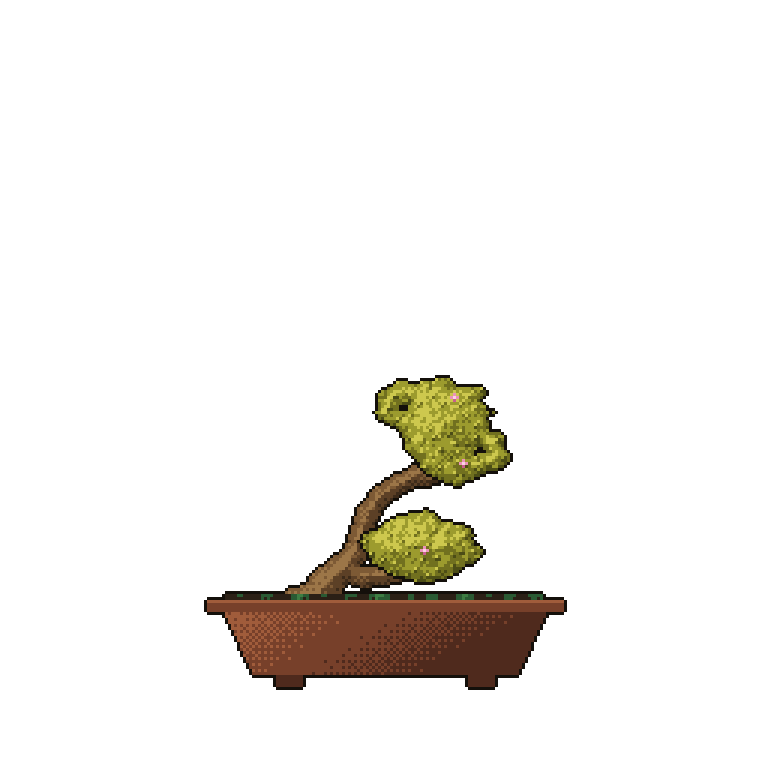
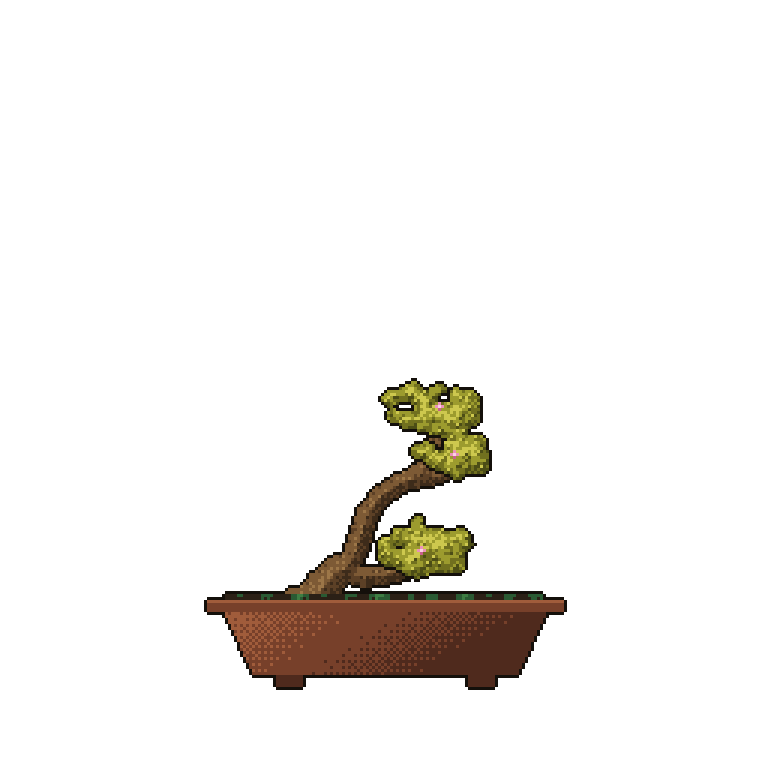
feat: cloudier crowns and sculpted trunks
Crowns: smaller glue-blobs at pad centers, ragged edges and a
low-frequency hole noise carve the sky-gaps of real crowns, so branch
structure shows through; denser leaf stamps.

Trunks: thick wood is drawn as a union of noise-offset lobes (grooves
and knobs instead of a smooth sausage), bark striations are stronger
per species, and a new depthScale shading knob lets the tonal gradient
reach the core of wide trunks instead of saturating 3px from the edge.

Claude-Session: https://claude.ai/code/session_016wzfiLTiSENdkKTfsVTFZx

Changed region(s): [[0.375, 0.4688, 0.6875, 0.7812]]

diff --git a/dist/src/foliage.js b/dist/src/foliage.js
@@ -26,11 +26,13 @@ function drawFoliage(frame, dna, skel, t, sway, rng, noise) {
         if (pad.dead || pad.birth > t)
             continue;
         const grow = ease((t - pad.birth) / 0.15);
-        balls.push({ x: sway(pad.x, pad.y - 1), y: pad.y - 1, r: pad.r * 0.58 * grow, epoch: pad.epoch });
+        // a small core blob only glues the very center; the cloud shape comes
+        // from the twig tips so branch structure shows through the gaps
+        balls.push({ x: sway(pad.x, pad.y - 1), y: pad.y - 1, r: pad.r * 0.42 * grow, epoch: pad.epoch });
         for (const tip of pad.tips) {
             if (tip.birth > t)
                 continue;
-            const tr = (3.6 + dna.foliage * 1.9) * ease((t - tip.birth) / 0.1);
+            const tr = (3.2 + dna.foliage * 1.5) * ease((t - tip.birth) / 0.1);
             balls.push({ x: sway(tip.x, tip.y), y: tip.y, r: tr, epoch: pad.epoch });
         }
     }
@@ -73,7 +75,8 @@ function drawFoliage(frame, dna, skel, t, sway, rng, noise) {
             }
         }
     }
-    // separation rises with foliage so dense crowns keep visible layered pads
+    // separation rises with foliage so dense crowns keep visible layered pads;
+    // a low-frequency "hole" noise carves the sky-gaps real crowns have
     const threshold = species.padThreshold + dna.foliage * 0.1;
     const mask = new Uint8Array(w * h);
     const epochBuf = new Uint8Array(w * h);
@@ -82,7 +85,9 @@ function drawFoliage(frame, dna, skel, t, sway, rng, noise) {
             const i = y * w + x;
             if (field[i] <= 0.05)
                 continue;
-            if (field[i] + noise(x * 0.09, y * 0.09) * 0.3 > threshold) {
+            const ragged = noise(x * 0.09, y * 0.09) * 0.38;
+            const hole = Math.max(0, noise(x * 0.045 + 37, y * 0.045 - 53)) * 0.5;
+            if (field[i] + ragged - hole > threshold) {
                 mask[i] = 1;
                 let best = 0;
                 if (fieldE[1][i] > fieldE[best][i])
@@ -109,7 +114,7 @@ function drawFoliage(frame, dna, skel, t, sway, rng, noise) {
         }
     }
     // leaf-stamp texture (stamp shape comes from the species)
-    const pts = (0, poisson_1.poissonDisk)(rng, maxX - minX + 1, maxY - minY + 1, 3.2);
+    const pts = (0, poisson_1.poissonDisk)(rng, maxX - minX + 1, maxY - minY + 1, 2.6);
     for (const p of pts) {
         const x = Math.floor(minX + p.x);
         const y = Math.floor(minY + p.y);

diff --git a/dist/src/render.js b/dist/src/render.js
@@ -41,7 +41,25 @@ function renderFrame(dna, skel, opts = {}) {
             continue;
         const rEase = 0.3 + 0.7 * ease((t - s.birth) * 8);
         const r = s.twig ? s.radius : s.radius * rEase * maturity;
-        (0, raster_1.fillCapsule)(s.dead ? deadMask : aliveMask, skeleton_1.W, skeleton_1.H, sway(s.ax, s.ay), s.ay, sway(s.bx, s.by), s.by, r, 1);
+        const mask = s.dead ? deadMask : aliveMask;
+        const ax = sway(s.ax, s.ay);
+        const bx = sway(s.bx, s.by);
+        if (!s.twig && r > 3.5) {
+            // fluted trunk: a union of offset lobes gives thick wood the grooves,
+            // knobs and muscle of real bark instead of a smooth sausage
+            const pxv = s.by - s.ay;
+            const pyv = -(bx - ax);
+            const L = Math.hypot(pxv, pyv) || 1;
+            const wob = 0.32 + 0.22 * noise((s.ax + s.bx) * 0.11, (s.ay + s.by) * 0.11);
+            const ox = (pxv / L) * r * wob;
+            const oy = (pyv / L) * r * wob;
+            (0, raster_1.fillCapsule)(mask, skeleton_1.W, skeleton_1.H, ax + ox, s.ay + oy, bx + ox, s.by + oy, r * 0.62, 1);
+            (0, raster_1.fillCapsule)(mask, skeleton_1.W, skeleton_1.H, ax - ox, s.ay - oy, bx - ox, s.by - oy, r * 0.62, 1);
+            (0, raster_1.fillCapsule)(mask, skeleton_1.W, skeleton_1.H, ax, s.ay, bx, s.by, r * 0.85, 1);
+        }
+        else {
+            (0, raster_1.fillCapsule)(mask, skeleton_1.W, skeleton_1.H, ax, s.ay, bx, s.by, r, 1);
+        }
         // shari: a pale strip of deadwood along the lower trunk's shaded side
         if (dna.shari && !s.twig && s.order <= 1 && s.birth < 0.3 && r > 2.5) {
             const pxv = s.by - s.ay;
@@ -58,7 +76,7 @@ function renderFrame(dna, skel, opts = {}) {
         (0, raster_1.fillCapsule)(aliveMask, skeleton_1.W, skeleton_1.H, skel.baseX, skel.groundY - 4, skel.baseX + side * spread, skel.groundY - 2, dna.baseRadius * 0.36, 1);
     }
     const shadeAlive = (0, shade_1.makeShader)(aliveMask, skeleton_1.W, skeleton_1.H, palette_1.TRUNK.length, {
-        depthMix: 0.4, noise, noiseAmp: species.barkAmp, noiseScaleX: 0.5, noiseScaleY: 0.12,
+        depthMix: 0.38, depthScale: 0.13, noise, noiseAmp: species.barkAmp, noiseScaleX: 0.55, noiseScaleY: 0.09,
     });
     const shadeDead = (0, shade_1.makeShader)(deadMask, skeleton_1.W, skeleton_1.H, palette_1.DEAD.length, { depthMix: 0.35 });
     for (let y = 0; y < skeleton_1.H; y++) {

diff --git a/src/foliage.ts b/src/foliage.ts
@@ -38,10 +38,12 @@ export function drawFoliage(
   for (const pad of skel.pads) {
     if (pad.dead || pad.birth > t) continue;
     const grow = ease((t - pad.birth) / 0.15);
-    balls.push({ x: sway(pad.x, pad.y - 1), y: pad.y - 1, r: pad.r * 0.58 * grow, epoch: pad.epoch });
+    // a small core blob only glues the very center; the cloud shape comes
+    // from the twig tips so branch structure shows through the gaps
+    balls.push({ x: sway(pad.x, pad.y - 1), y: pad.y - 1, r: pad.r * 0.42 * grow, epoch: pad.epoch });
     for (const tip of pad.tips) {
       if (tip.birth > t) continue;
-      const tr = (3.6 + dna.foliage * 1.9) * ease((t - tip.birth) / 0.1);
+      const tr = (3.2 + dna.foliage * 1.5) * ease((t - tip.birth) / 0.1);
       balls.push({ x: sway(tip.x, tip.y), y: tip.y, r: tr, epoch: pad.epoch });
     }
   }
@@ -84,7 +86,8 @@ export function drawFoliage(
     }
   }
 
-  // separation rises with foliage so dense crowns keep visible layered pads
+  // separation rises with foliage so dense crowns keep visible layered pads;
+  // a low-frequency "hole" noise carves the sky-gaps real crowns have
   const threshold = species.padThreshold + dna.foliage * 0.1;
   const mask = new Uint8Array(w * h);
   const epochBuf = new Uint8Array(w * h);
@@ -92,7 +95,9 @@ export function drawFoliage(
     for (let x = minX; x <= maxX; x++) {
       const i = y * w + x;
       if (field[i] <= 0.05) continue;
-      if (field[i] + noise(x * 0.09, y * 0.09) * 0.3 > threshold) {
+      const ragged = noise(x * 0.09, y * 0.09) * 0.38;
+      const hole = Math.max(0, noise(x * 0.045 + 37, y * 0.045 - 53)) * 0.5;
+      if (field[i] + ragged - hole > threshold) {
         mask[i] = 1;
         let best = 0;
         if (fieldE[1][i] > fieldE[best][i]) best = 1;
@@ -118,7 +123,7 @@ export function drawFoliage(
   }
 
   // leaf-stamp texture (stamp shape comes from the species)
-  const pts = poissonDisk(rng, maxX - minX + 1, maxY - minY + 1, 3.2);
+  const pts = poissonDisk(rng, maxX - minX + 1, maxY - minY + 1, 2.6);
   for (const p of pts) {
     const x = Math.floor(minX + p.x);
     const y = Math.floor(minY + p.y);

diff --git a/src/render.ts b/src/render.ts
@@ -52,10 +52,24 @@ export function renderFrame(dna: BonsaiDNA, skel: Skeleton, opts: RenderOpts = {
     if (s.birth > t) continue;
     const rEase = 0.3 + 0.7 * ease((t - s.birth) * 8);
     const r = s.twig ? s.radius : s.radius * rEase * maturity;
-    fillCapsule(
-      s.dead ? deadMask : aliveMask, W, H,
-      sway(s.ax, s.ay), s.ay, sway(s.bx, s.by), s.by, r, 1,
-    );
+    const mask = s.dead ? deadMask : aliveMask;
+    const ax = sway(s.ax, s.ay);
+    const bx = sway(s.bx, s.by);
+    if (!s.twig && r > 3.5) {
+      // fluted trunk: a union of offset lobes gives thick wood the grooves,
+      // knobs and muscle of real bark instead of a smooth sausage
+      const pxv = s.by - s.ay;
+      const pyv = -(bx - ax);
+      const L = Math.hypot(pxv, pyv) || 1;
+      const wob = 0.32 + 0.22 * noise((s.ax + s.bx) * 0.11, (s.ay + s.by) * 0.11);
+      const ox = (pxv / L) * r * wob;
+      const oy = (pyv / L) * r * wob;
+      fillCapsule(mask, W, H, ax + ox, s.ay + oy, bx + ox, s.by + oy, r * 0.62, 1);
+      fillCapsule(mask, W, H, ax - ox, s.ay - oy, bx - ox, s.by - oy, r * 0.62, 1);
+      fillCapsule(mask, W, H, ax, s.ay, bx, s.by, r * 0.85, 1);
+    } else {
+      fillCapsule(mask, W, H, ax, s.ay, bx, s.by, r, 1);
+    }
     // shari: a pale strip of deadwood along the lower trunk's shaded side
     if (dna.shari && !s.twig && s.order <= 1 && s.birth < 0.3 && r > 2.5) {
       const pxv = s.by - s.ay;
@@ -84,7 +98,7 @@ export function renderFrame(dna: BonsaiDNA, skel: Skeleton, opts: RenderOpts = {
   }
 
   const shadeAlive = makeShader(aliveMask, W, H, TRUNK.length, {
-    depthMix: 0.4, noise, noiseAmp: species.barkAmp, noiseScaleX: 0.5, noiseScaleY: 0.12,
+    depthMix: 0.38, depthScale: 0.13, noise, noiseAmp: species.barkAmp, noiseScaleX: 0.55, noiseScaleY: 0.09,
   });
   const shadeDead = makeShader(deadMask, W, H, DEAD.length, { depthMix: 0.35 });
   for (let y = 0; y < H; y++) {

diff --git a/dist/src/palette.js b/dist/src/palette.js
@@ -63,11 +63,11 @@ function speciesFor(lang) {
     return (lang && FAMILY[lang]) || 'maple';
 }
 exports.SPECIES = {
-    pine: { padFlatten: 1.6, padThreshold: 0.5, stamp: [[0, 0], [1, -1]], barkAmp: 0.2, droop: 0.2 },
-    maple: { padFlatten: 1.15, padThreshold: 0.44, stamp: [[0, 0], [-1, 0], [1, 0], [0, -1], [0, 1]], barkAmp: 0.1, droop: 0.1 },
-    cherry: { padFlatten: 1.05, padThreshold: 0.4, stamp: [[0, 0], [1, 0], [0, 1], [1, 1]], barkAmp: 0.08, droop: 0.14 },
-    juniper: { padFlatten: 1.35, padThreshold: 0.55, stamp: [[0, 0]], barkAmp: 0.16, droop: 0.05 },
-    elm: { padFlatten: 1.2, padThreshold: 0.46, stamp: [[0, 0], [0, 1]], barkAmp: 0.06, droop: 0.04 },
+    pine: { padFlatten: 1.6, padThreshold: 0.56, stamp: [[0, 0], [1, -1]], barkAmp: 0.3, droop: 0.2 },
+    maple: { padFlatten: 1.15, padThreshold: 0.5, stamp: [[0, 0], [-1, 0], [1, 0], [0, -1], [0, 1]], barkAmp: 0.22, droop: 0.1 },
+    cherry: { padFlatten: 1.05, padThreshold: 0.46, stamp: [[0, 0], [1, 0], [0, 1], [1, 1]], barkAmp: 0.16, droop: 0.14 },
+    juniper: { padFlatten: 1.35, padThreshold: 0.6, stamp: [[0, 0]], barkAmp: 0.28, droop: 0.05 },
+    elm: { padFlatten: 1.2, padThreshold: 0.52, stamp: [[0, 0], [0, 1]], barkAmp: 0.14, droop: 0.04 },
 };
 const BASE = {
     1: '#14100b',

diff --git a/src/palette.ts b/src/palette.ts
@@ -80,11 +80,11 @@ export interface Species {
 }
 
 export const SPECIES: Record<SpeciesId, Species> = {
-  pine: { padFlatten: 1.6, padThreshold: 0.5, stamp: [[0, 0], [1, -1]], barkAmp: 0.2, droop: 0.2 },
-  maple: { padFlatten: 1.15, padThreshold: 0.44, stamp: [[0, 0], [-1, 0], [1, 0], [0, -1], [0, 1]], barkAmp: 0.1, droop: 0.1 },
-  cherry: { padFlatten: 1.05, padThreshold: 0.4, stamp: [[0, 0], [1, 0], [0, 1], [1, 1]], barkAmp: 0.08, droop: 0.14 },
-  juniper: { padFlatten: 1.35, padThreshold: 0.55, stamp: [[0, 0]], barkAmp: 0.16, droop: 0.05 },
-  elm: { padFlatten: 1.2, padThreshold: 0.46, stamp: [[0, 0], [0, 1]], barkAmp: 0.06, droop: 0.04 },
+  pine: { padFlatten: 1.6, padThreshold: 0.56, stamp: [[0, 0], [1, -1]], barkAmp: 0.3, droop: 0.2 },
+  maple: { padFlatten: 1.15, padThreshold: 0.5, stamp: [[0, 0], [-1, 0], [1, 0], [0, -1], [0, 1]], barkAmp: 0.22, droop: 0.1 },
+  cherry: { padFlatten: 1.05, padThreshold: 0.46, stamp: [[0, 0], [1, 0], [0, 1], [1, 1]], barkAmp: 0.16, droop: 0.14 },
+  juniper: { padFlatten: 1.35, padThreshold: 0.6, stamp: [[0, 0]], barkAmp: 0.28, droop: 0.05 },
+  elm: { padFlatten: 1.2, padThreshold: 0.52, stamp: [[0, 0], [0, 1]], barkAmp: 0.14, droop: 0.04 },
 };
 
 const BASE: Record<number, string> = {

diff --git a/src/shade.ts b/src/shade.ts
@@ -73,6 +73,8 @@ export interface ShadeOpts {
   lightY?: number;
   /** How much SDF depth (vs lambert) drives the tone. */
   depthMix?: number;
+  /** How fast depth saturates: lower = the gradient reaches deeper (wide trunks). */
+  depthScale?: number;
   /** Extra per-pixel tone noise (bark/leaf texture). */
   noise?: Noise2;
   noiseAmp?: number;
@@ -92,6 +94,7 @@ export function makeShader(
   const lx = opts.lightX ?? -0.55;
   const ly = opts.lightY ?? -0.83;
   const depthMix = opts.depthMix ?? 0.45;
+  const depthScale = opts.depthScale ?? 0.3;
   const nAmp = opts.noiseAmp ?? 0;
 
   return (x: number, y: number): number => {
@@ -107,7 +110,7 @@ export function makeShader(
     const nl = Math.hypot(nx, ny);
     if (nl > 0.0001) { nx /= nl; ny /= nl; }
     const lambert = 0.5 + 0.5 * (nx * lx + ny * ly);
-    const depth = Math.min(1, dist[i] * 0.3);
+    const depth = Math.min(1, dist[i] * depthScale);
     let t = (1 - depthMix) * lambert + depthMix * depth;
     if (opts.noise && nAmp > 0) {
       t += opts.noise(x * (opts.noiseScaleX ?? 0.3), y * (opts.noiseScaleY ?? 0.3)) * nAmp;

diff --git a/dist/src/shade.js b/dist/src/shade.js
@@ -82,6 +82,7 @@ function makeShader(mask, w, h, rampLen, opts = {}) {
     const lx = opts.lightX ?? -0.55;
     const ly = opts.lightY ?? -0.83;
     const depthMix = opts.depthMix ?? 0.45;
+    const depthScale = opts.depthScale ?? 0.3;
     const nAmp = opts.noiseAmp ?? 0;
     return (x, y) => {
         const i = y * w + x;
@@ -100,7 +101,7 @@ function makeShader(mask, w, h, rampLen, opts = {}) {
             ny /= nl;
         }
         const lambert = 0.5 + 0.5 * (nx * lx + ny * ly);
-        const depth = Math.min(1, dist[i] * 0.3);
+        const depth = Math.min(1, dist[i] * depthScale);
         let t = (1 - depthMix) * lambert + depthMix * depth;
         if (opts.noise && nAmp > 0) {
             t += opts.noise(x * (opts.noiseScaleX ?? 0.3), y * (opts.noiseScaleY ?? 0.3)) * nAmp;

diff --git a/dist/src/skeleton.js b/dist/src/skeleton.js
@@ -183,7 +183,7 @@ function buildSkeleton(dna, rng) {
         const birth = parentSeg ? parentSeg.birth + 0.05 : 0.5;
         const dead = deadSet.has(i);
         const epoch = parentSeg ? parentSeg.epoch : 2;
-        const padR = (8 + dna.foliage * 10.5) * (0, seed_1.range)(rng, 0.8, 1.2) * (dna.style === 'bunjin' ? 0.8 : 1);
+        const padR = (7 + dna.foliage * 8.5) * (0, seed_1.range)(rng, 0.8, 1.2) * (dna.style === 'bunjin' ? 0.8 : 1);
         const tips = growTwigs(segs, site, dead, birth, padR, dna, rng);
         pads.push({ x: site.x, y: site.y, r: padR, birth: Math.min(birth, 0.95), dead, epoch, tips });
     });

diff --git a/src/skeleton.ts b/src/skeleton.ts
@@ -240,7 +240,7 @@ export function buildSkeleton(dna: BonsaiDNA, rng: Rng): Skeleton {
     const birth = parentSeg ? parentSeg.birth + 0.05 : 0.5;
     const dead = deadSet.has(i);
     const epoch = parentSeg ? parentSeg.epoch : 2;
-    const padR = (8 + dna.foliage * 10.5) * range(rng, 0.8, 1.2) * (dna.style === 'bunjin' ? 0.8 : 1);
+    const padR = (7 + dna.foliage * 8.5) * range(rng, 0.8, 1.2) * (dna.style === 'bunjin' ? 0.8 : 1);
     const tips = growTwigs(segs, site, dead, birth, padR, dna, rng);
     pads.push({ x: site.x, y: site.y, r: padR, birth: Math.min(birth, 0.95), dead, epoch, tips });
   });
